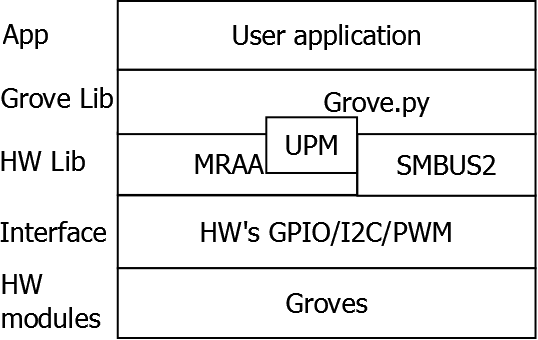
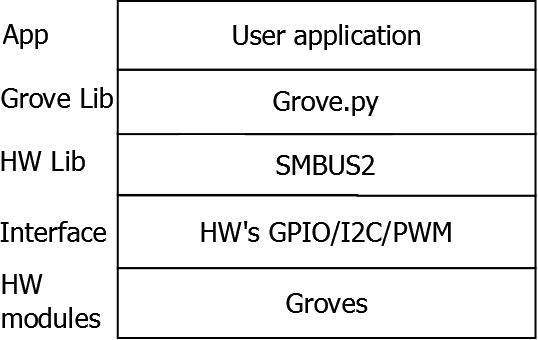
Update: README without mraa and upm libraries

Changed region(s): [[0.3569, 0.2647, 0.803, 0.5588], [0.7435, 0.4412, 0.9219, 0.5294]]

diff --git a/README.md b/README.md
@@ -13,7 +13,7 @@ Python library for Seeedstudio Grove Devices on embeded Linux platform, especial
 
 <br><br>
 # Architecture
-To operate grove sensors, the grove.py depends many hardware interface libraries such as mraa/upm/smbus2. 
+To operate grove sensors, the grove.py depends on the smbus2 hardware interface library.
 
 <br>
 
